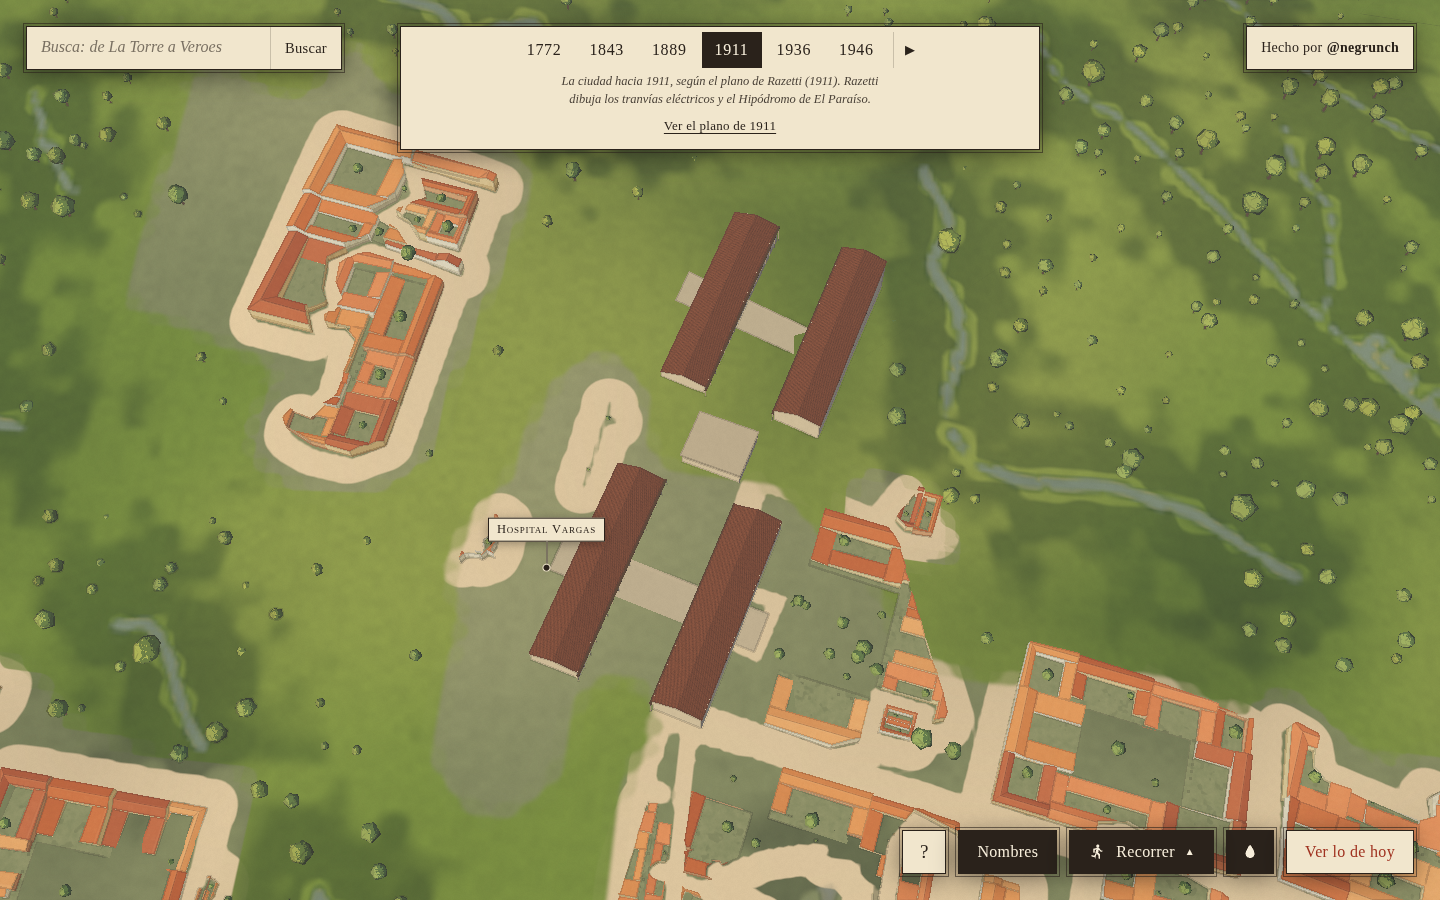
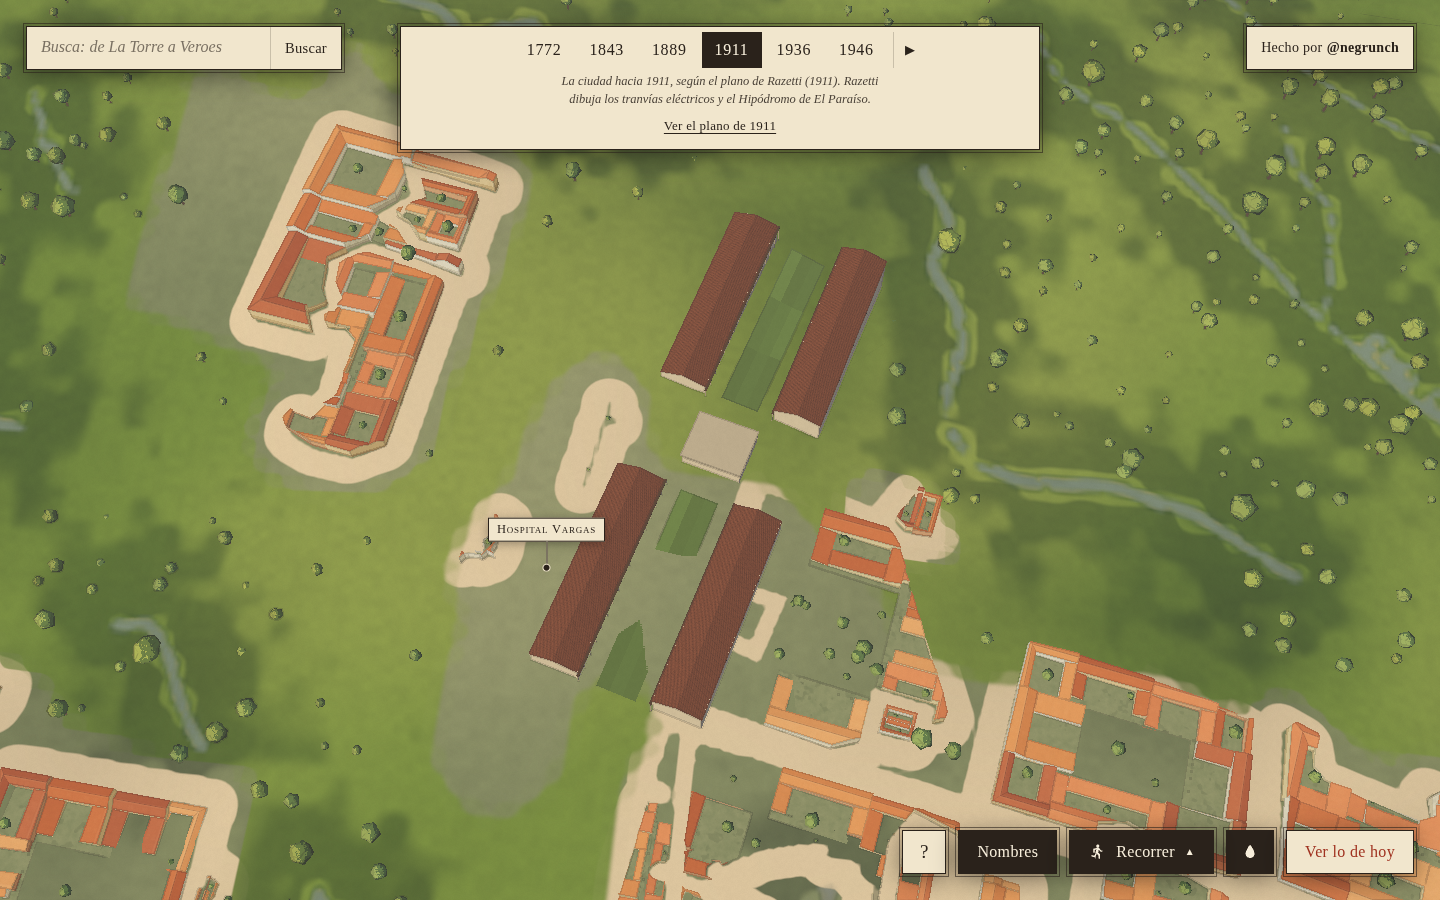
fix: corregir colisión y jardines del Hospital Vargas

diff --git a/src/hitos/datos/hospital-vargas.js b/src/hitos/datos/hospital-vargas.js
@@ -4,22 +4,25 @@ import { rectanguloPx } from './marco.js'
 // Centro aproximado (9796, 4503), eje transversal este-noreste y dimensión nominal 100 × 270 m.
 const marco = { x: 9796, y: 4503, eje: [0.963, 0.269] }
 const recinto = [rectanguloPx(marco, 100, 270)]
+// El recinto abierto se reserva para la supresión de casas; solo las salas y el núcleo son colisión.
+const edificios = [
+  ...[-73, 73].flatMap(b => [-28, 28].map(a => rectanguloPx(marco, 22, 96, a, b))),
+  rectanguloPx(marco, 28, 23),
+]
 
 export const hospitalVargas = Object.freeze({
   id: 'hospital-vargas', nombre: 'Hospital Vargas', ...marco, nace: 3, muere: 0,
-  planta: recinto, suprime: recinto, sinArboles: recinto, solarCompleto: true,
+  planta: edificios, suprime: recinto, sinArboles: recinto, solarCompleto: true,
   partes: [
     { tipo: 'hospitalVargas', anio: 1889, nace: 3, muere: 4 },
     { tipo: 'hospitalVargas', anio: 1911, nace: 4, muere: 5 },
     { tipo: 'hospitalVargas', anio: 1936, nace: 5, muere: 0 },
   ],
-  fuente: 'Plano topográfico de Caracas de Vicente S. Mestre (1889), n.º 43 «Hospital Vargas», raster BnF vía Wikimedia Commons, dominio público; calce TPS del proyecto (1889→1936), 479 GCP, RMS LOO 7,64 m; Guía de Caracas: https://guiaccs.com/obras/hospital-vargas/; Roger Escalona, Sociedad Venezolana de Historia de la Medicina (2006): https://revista.svhm.org.ve/ediciones/2006/1-2/art-3; El Cojo Ilustrado (1-1-1892), p. 12: https://www.libroria.com/museo/obras/El%20Cojo%20Ilustrado/1892/pdf/CI_18920101.pdf; Caracas en 450, Fundación Empresas Polar/Banesco: https://banesco-prod-2019.s3.amazonaws.com/wp-content/uploads/Caracas-en-450.pdf',
+  fuente: 'Mestre (1889); SVHM (2006); El Cojo Ilustrado (1892); ver docs/issue-249-hospital-vargas.md.',
   verificar: [
-    'Centro y contorno nominal de 100 × 270 m interpretados al trasladar la planta dibujada por Mestre al lienzo común. El error de calce local del proyecto es RMS LOO 7,64 m; no es una mensura catastral.',
-    'El plano de 1889 dibuja dos alas de pabellones y un núcleo central mientras las obras seguían en curso; los volúmenes esquemáticos representan esa planta documentada, no afirman que todo el conjunto estuviera terminado o atendiendo pacientes.',
-    'La Guía de Caracas describe orientación norte-sur, acceso oeste, alas de hombres y mujeres y cinco salas por fila separadas por jardines. Las medidas, vanos y galerías del modelo son aproximaciones.',
-    'El Cojo Ilustrado de 1892 muestra una galería hospitalaria, no una elevación completa del exterior. La distribución exacta de las galerías se generaliza.',
-    'La fuente de Caracas en 450 fecha desde 1930 la sustitución de cubiertas ojivales de madera por platabandas. La época 1936 aplica cubierta plana; no se dibujan ampliaciones de 1939 porque las fuentes consultadas no permiten ubicarlas dentro del solar.',
-    'No se copian imágenes con derechos no verificados. El grabado de 1892 y las fotografías se enlazan como referencias; el plano de Mestre es de dominio público.',
+    'Huella nominal, no catastral; calce RMS LOO 7,64 m.',
+    'Planta de 1889 durante obras; dimensiones y vanos interpretativos.',
+    'Anexos de 1939 sin ubicación verificable; no modelados.',
+    'Jardines y galerías quedan transitables; solo los pabellones y el núcleo son colisión.',
   ],
 })

diff --git a/src/hitos.js b/src/hitos.js
@@ -1,8 +1,3 @@
-import {hijosDios} from './hitos/datos/hijos-dios.js'
-import {rotundaYConcordia} from './hitos/datos/rotunda.js'
-import {sanAgustin} from './hitos/datos/san-agustin.js'
-import {metropolitano} from './hitos/datos/metropolitano.js'
-import {cementerioSur} from './hitos/datos/cementerio-sur.js'
 import {poligonosConVida} from './hitos/datos/fases-geometricas.js'
 /**
  * Los hitos: edificios y lugares con nombre, modelados a mano a partir del plano de 1936 y de las fotos y
@@ -16,22 +11,16 @@ import {poligonosConVida} from './hitos/datos/fases-geometricas.js'
  * Las casas genéricas que pisan un hito se apagan al cargar la ciudad (src/hitos/suprimir.js).
  */
 import { BufferGeometry, BufferAttribute, Mesh } from 'three'
-import { crearLienzo } from './hitos/lienzo.js'
 import { parteDe } from './hitos/partes.js'
 import { crearMaterialHitos, crearMaterialSombraHitos } from './hitos/material.js'
-import { METRO } from './hitos/datos/marco.js'
-import { plazaBolivar } from './hitos/datos/plaza-bolivar.js'
-import { catedral } from './hitos/datos/catedral.js'
-import { iglesias } from './hitos/datos/iglesias.js'
-import { panteon } from './hitos/datos/panteon.js'
-import {silencio} from './hitos/datos/el-silencio.js'
-import {nuevoCirco} from './hitos/datos/nuevo-circo.js'
-import { civiles } from './hitos/datos/civiles.js'
+import { construirHitos } from './hitos/construir.js'
+import { HITOS } from './hitos/datos/index.js'
 
+export { construirHitos }
 export { suprimirTechos, zonasDeSupresion } from './hitos/suprimir.js'
 
 /** Todos los hitos, en el orden en que se dibujan. */
-export const HITOS = Object.freeze([plazaBolivar, catedral, ...iglesias, panteon, ...civiles, ...silencio, nuevoCirco, metropolitano, ...rotundaYConcordia, sanAgustin, hijosDios,cementerioSur])
+export { HITOS }
 
 const EPOCAS = 7 // 0 = 1578 … 5 = 1936 (src/epocas.js)
 const esEpoca = (e) => Number.isInteger(e) && e >= 0 && e < EPOCAS
@@ -75,24 +64,6 @@ export function validarHitos(hitos, plano) {
     }
   }
   return problemas
-}
-
-/** Dibuja los hitos en un lienzo y devuelve sus arrays planos (sin three.js de por medio, salvo las piezas). */
-export function construirHitos(hitos, coords) {
-  if (Math.abs(coords.metro - METRO) > 1e-9) throw new Error(`hitos: definidos a ${METRO} m/px y el plano viene a ${coords.metro}`)
-  const lienzo = crearLienzo()
-  const rangos = []
-  hitos.forEach((h, i) => {
-    const desde = lienzo.vertices
-    const p = lienzo.hito({ origen: coords.aMundo(h.x, h.y), eje: h.eje, nace: h.nace ?? 0, muere: h.muere ?? 0, semilla: i + 1 })
-    for (const { tipo, nace, muere, ...medidas } of h.partes) {
-      const dibujar = parteDe(tipo)
-      if (!dibujar) throw new Error(`hito ${h.id}: parte de tipo desconocido "${tipo}"`)
-      dibujar(p.con({ nace, muere }), medidas)
-    }
-    rangos.push({ id: h.id, desde, hasta: lienzo.vertices })
-  })
-  return { ...lienzo.datos(), rangos }
 }
 
 export function geometriaHitos({ posiciones, normales, colores, hitos, vidas, anclas, uvs, indices }) {

diff --git a/src/main.js b/src/main.js
@@ -11,8 +11,10 @@ import { crearCasas } from './casas.js'
 import { pedirCiudad } from './ciudad-pedido.js'
 import { crearMaterialCiudad, crearMaterialSombraCiudad } from './material.js'
 import { cargarArboles } from './arboles.js'
-import { HITOS, crearHitos, suprimirTechos, zonasDeSupresion } from './hitos.js'
-import { pedirHitos } from './hitos-pedido.js'
+import { HITOS } from './hitos/datos/index.js'
+import { suprimirTechos, zonasDeSupresion } from './hitos/suprimir.js'
+import { crearMallaHitos } from './hitos/malla.js'
+import { pedirHitos } from './pedir-hitos.js'
 import { acercar, pasoDeCuadro } from './animar.js'
 import { texturasHoy, HOY_CERCA } from './hoy.js'
 import { crearBuscador } from './buscador/interfaz.js'
@@ -295,14 +297,14 @@ function prepararEntorno1946(){
 }
 function prepararSilencio(){
   return silencioPedido ??= pedirHitos({plano:meta.plano,soloSilencio:true,crearTrabajador:sinTrabajadores?null:()=>new Worker(new URL('./hitos-trabajador.js',import.meta.url),{type:'module'})}).then(datos=>{
-    hitosSilencio=crearHitos({coords,U:ciudad.U,datos,hitos:HITOS.filter(h=>h.nace===6)});hitosSilencio.name='el-silencio';scene.add(hitosSilencio);pedirCuadro(3)
+    hitosSilencio=crearMallaHitos({U:ciudad.U,datos});hitosSilencio.name='el-silencio';scene.add(hitosSilencio);pedirCuadro(3)
   }).catch(e=>{silencioPedido=null;throw e})
 }
 const hitosPedidos = pedirHitos({
   plano: meta.plano,
   crearTrabajador: sinTrabajadores ? null : () => new Worker(new URL('./hitos-trabajador.js', import.meta.url), { type: 'module' }),
 }).then((datos) => {
-  hitos = crearHitos({ coords, U: ciudad.U, datos })
+  hitos = crearMallaHitos({ U: ciudad.U, datos })
   scene.add(hitos)
   pedirCuadro(3)
 }).catch((e) => console.warn(`hitos: ${e.message}`))

diff --git a/src/hitos/hospital-vargas.js b/src/hitos/hospital-vargas.js
@@ -2,8 +2,6 @@ import { PlaneGeometry } from 'three'
 import { MAT } from './lienzo.js'
 import { TONO, caja, cuerpo, vano } from './piezas.js'
 
-const COLOR_JARDIN = 0x78915c
-
 function pabellon(p, a, b, anio) {
   const largo = 96, ancho = 22, alto = 5.7
   // El eje longitudinal de las salas corre norte-sur (b); el eje local de cuerpo corre por a.
@@ -36,8 +34,8 @@ export function hospitalVargas(p, { anio = 1889 } = {}) {
   // Jardines longitudinales entre las filas de salas, con suelo que sigue el relieve local.
   for (const b of [-73, 73]) {
     p.en(0, 0, b).sobreTerreno().geo(
-      new PlaneGeometry(96, 18).rotateX(-Math.PI / 2).translate(0, 0.04, 0),
-      { color: COLOR_JARDIN, mat: MAT.JARDIN },
+      new PlaneGeometry(18, 96).rotateX(-Math.PI / 2).translate(0, 0.04, 0),
+      { color: [9, 48, -1], mat: MAT.JARDIN, flota: true },
     )
   }
   for (const b of [-73, 73]) {
@@ -49,7 +47,7 @@ export function hospitalVargas(p, { anio = 1889 } = {}) {
   const nucleo = p.en(0, 0, 0)
   caja(nucleo, { ancho: 28, fondo: 23, alto: 6.2, color: TONO.CAL })
   caja(nucleo.en(0, 6.2, 0), { ancho: 29.2, fondo: 24.2, alto: 0.55, color: TONO.PIEDRA_CLARA, flota: true })
-  caja(nucleo.en(0, 0, 0), { ancho: 8, fondo: 8, alto: 0.15, color: COLOR_JARDIN, mat: MAT.JARDIN })
+  caja(nucleo.en(0, 0, 0), { ancho: 8, fondo: 8, alto: 0.15, color: [4, 4, -1], mat: MAT.JARDIN })
   for (const [a, b] of [[-8, 0], [8, 0], [0, -7], [0, 7]]) {
     for (const z of [-4.2, 4.2]) vano(nucleo.mirando(a, 1.8, b + z, 0, Math.sign(z)), { ancho: 1.8, alto: 2.8, arco: false })
   }

diff --git a/src/hitos/malla.js b/src/hitos/malla.js
@@ -1,0 +1,27 @@
+import { BufferAttribute, BufferGeometry, Mesh } from 'three'
+import { crearMaterialHitos, crearMaterialSombraHitos } from './material.js'
+
+function geometriaHitos({ posiciones, normales, colores, hitos, vidas, anclas, uvs, indices }) {
+  const g = new BufferGeometry()
+  g.setAttribute('position', new BufferAttribute(posiciones, 3))
+  g.setAttribute('normal', new BufferAttribute(normales, 3))
+  g.setAttribute('aColor', new BufferAttribute(colores, 3))
+  g.setAttribute('aHito', new BufferAttribute(hitos, 4))
+  g.setAttribute('aVida', new BufferAttribute(vidas, 2))
+  g.setAttribute('aAncla', new BufferAttribute(anclas, 4))
+  g.setAttribute('aUv', new BufferAttribute(uvs, 2))
+  g.setIndex(new BufferAttribute(indices, 1))
+  g.computeBoundingSphere()
+  return g
+}
+
+/** Crea la malla de los arrays recibidos del worker, sin cargar los constructores geométricos. */
+export function crearMallaHitos({ datos, U }) {
+  const malla = new Mesh(geometriaHitos(datos), crearMaterialHitos({ U }))
+  malla.customDepthMaterial = crearMaterialSombraHitos(malla.material)
+  malla.castShadow = true
+  malla.frustumCulled = false
+  malla.name = 'hitos'
+  malla.userData.rangos = datos.rangos
+  return malla
+}

diff --git a/src/hitos/datos/index.js b/src/hitos/datos/index.js
@@ -1,0 +1,24 @@
+import { hijosDios } from './hijos-dios.js'
+import { rotundaYConcordia } from './rotunda.js'
+import { sanAgustin } from './san-agustin.js'
+import { metropolitano } from './metropolitano.js'
+import { cementerioSur } from './cementerio-sur.js'
+import { poligonosConVida } from './fases-geometricas.js'
+import { plazaBolivar } from './plaza-bolivar.js'
+import { catedral } from './catedral.js'
+import { iglesias } from './iglesias.js'
+import { panteon } from './panteon.js'
+import { silencio } from './el-silencio.js'
+import { nuevoCirco } from './nuevo-circo.js'
+import { civiles } from './civiles.js'
+
+/** Datos de hitos sin los constructores de geometría; lo usa el hilo principal para áreas y marcas. */
+export const HITOS = Object.freeze([
+  plazaBolivar, catedral, ...iglesias, panteon, ...civiles, ...silencio, nuevoCirco,
+  metropolitano, ...rotundaYConcordia, sanAgustin, hijosDios, cementerioSur,
+])
+
+/** Campos geométricos que consume el worker, sin fichas y huellas de colisión. */
+export const HITOS_GEOMETRIA = Object.freeze(HITOS.map(({ id, x, y, eje, nace, muere, partes }) => ({ id, x, y, eje, nace, muere, partes })))
+
+

diff --git a/src/pedir-hitos.js b/src/pedir-hitos.js
@@ -1,0 +1,23 @@
+/** Solicita al worker los arrays de edificios; deja la construcción en la página como respaldo diferido. */
+export function pedirHitos({ plano, soloSilencio = false, crearTrabajador = null, avisar = (m) => console.warn(m) }) {
+  const aMano = async (motivo) => {
+    if (motivo) avisar(`hitos: se construyen en el hilo de la página (${motivo})`)
+    const { datosDeHitos } = await import('./hitos-pedido.js')
+    return datosDeHitos(plano, soloSilencio)
+  }
+  if (!crearTrabajador) return aMano(null)
+  return new Promise((listo, mal) => {
+    let trabajador
+    const respaldo = (motivo) => {
+      trabajador?.terminate()
+      aMano(motivo).then(listo, mal)
+    }
+    try { trabajador = crearTrabajador() } catch (e) { respaldo(e.message); return }
+    trabajador.onmessage = ({ data }) => {
+      trabajador.terminate()
+      if (data.error) mal(new Error(data.error)); else listo(data.datos)
+    }
+    trabajador.onerror = (e) => { e.preventDefault?.(); respaldo(e.message || 'el worker no arrancó') }
+    trabajador.postMessage(soloSilencio ? { plano, soloSilencio: true } : { plano })
+  })
+}

diff --git a/src/hitos/construir.js b/src/hitos/construir.js
@@ -1,0 +1,21 @@
+import { crearLienzo } from './lienzo.js'
+import { parteDe } from './partes.js'
+import { METRO } from './datos/marco.js'
+
+/** Dibuja los hitos en un lienzo y devuelve arrays planos. */
+export function construirHitos(hitos, coords) {
+  if (Math.abs(coords.metro - METRO) > 1e-9) throw new Error(`hitos: definidos a ${METRO} m/px y el plano viene a ${coords.metro}`)
+  const lienzo = crearLienzo()
+  const rangos = []
+  hitos.forEach((h, i) => {
+    const desde = lienzo.vertices
+    const p = lienzo.hito({ origen: coords.aMundo(h.x, h.y), eje: h.eje, nace: h.nace ?? 0, muere: h.muere ?? 0, semilla: i + 1 })
+    for (const { tipo, nace, muere, ...medidas } of h.partes) {
+      const dibujar = parteDe(tipo)
+      if (!dibujar) throw new Error(`hito ${h.id}: parte de tipo desconocido "${tipo}"`)
+      dibujar(p.con({ nace, muere }), medidas)
+    }
+    rangos.push({ id: h.id, desde, hasta: lienzo.vertices })
+  })
+  return { ...lienzo.datos(), rangos }
+}

diff --git a/src/hitos-pedido.js b/src/hitos-pedido.js
@@ -4,11 +4,12 @@
  * `pedirHitos` se lo pide a un worker (src/hitos-trabajador.js), que contesta los arrays de construirHitos
  * transferidos sin copia. Si no hay worker, o falla, se construyen acá.
  */
-import { HITOS, construirHitos } from './hitos.js'
+import { construirHitos } from './hitos/construir.js'
+import { HITOS_GEOMETRIA } from './hitos/datos/index.js'
 import { crearCoords } from './coords.js'
 
 /** Los arrays de los hitos, en este hilo. */
-export const datosDeHitos = (plano, soloSilencio = false) => construirHitos(HITOS.filter(h=>soloSilencio ? h.nace===6 : h.nace<6), crearCoords(plano))
+export const datosDeHitos = (plano, soloSilencio = false) => construirHitos(HITOS_GEOMETRIA.filter(h=>soloSilencio ? h.nace===6 : h.nace<6), crearCoords(plano))
 
 /** Los búferes de los arrays tipados de unos datos, para transferirlos. */
 const transferibles = (datos) => Object.values(datos).filter((v) => ArrayBuffer.isView(v)).map((v) => v.buffer)

diff --git a/tests/unit/hospital-vargas.test.js b/tests/unit/hospital-vargas.test.js
@@ -16,7 +16,8 @@ describe('Hospital Vargas', () => {
       [1889, 3, 4], [1911, 4, 5], [1936, 5, 0],
     ])
     expect(zonasDeSupresion([hospitalVargas]).map(z => [z.desde, z.hasta])).toEqual([[3, 0]])
-    expect(hitosConPlanta().find(h => h.id === 'hospital-vargas').planta).toHaveLength(1)
+    expect(hitosConPlanta().find(h => h.id === 'hospital-vargas').planta).toHaveLength(5)
+    expect(hospitalVargas.suprime[0]).toHaveLength(4)
     expect(validarHitos([hospitalVargas], plano)).toEqual([])
     expect(parteDe('hospitalVargas')).toBeTypeOf('function')
   })

diff --git a/docs/issue-249-hospital-vargas.md b/docs/issue-249-hospital-vargas.md
@@ -17,7 +17,7 @@ Las ampliaciones de los pabellones Carlos J. Bello, Ángel Larralde y de lactant
 - `src/hitos/datos/hospital-vargas.js` define la huella (100 × 270 m nominales) en el sistema de píxeles de 1936, centrada aproximadamente en (9796, 4503). La ubicación se derivó de la planta de Mestre y del TPS existente. Estas dimensiones son interpretativas, no catastrales.
 - `src/hitos/hospital-vargas.js` construye los pabellones en la malla común. Las filas, vanos y galerías simplifican las fuentes; el esquema de 1889 representa la planta que el plano dibuja, no afirma que toda la construcción estuviera terminada.
 - `src/hitos/datos/civiles.js` y `src/hitos/partes.js` enlazan el hito con el render, el tiempo y la marca existente `hospital-vargas`; no duplican su ficha ni su cronología.
-- La reserva del solar suprime las casas genéricas y árboles dentro del recinto desde 1889, manteniendo intactas las manzanas exteriores.
+- La reserva del solar suprime las casas genéricas y árboles dentro del recinto desde 1889, manteniendo intactas las manzanas exteriores. La colisión peatonal se limita a los cuatro pabellones y al núcleo; jardines y corredores quedan transitables.
 - `tests/unit/hospital-vargas.test.js` verifica registro único, fases, aparición desde 1889, reservas y geometría finita. `tests/unit/hitos.test.js` incluye el suelo del pabellón en la verificación de apoyos sobre el relieve.
 - El conjunto añade 4.800 vértices (2.376 triángulos; ~0,43 MB de atributos CPU), integrado en la malla de hitos compartida.
 
